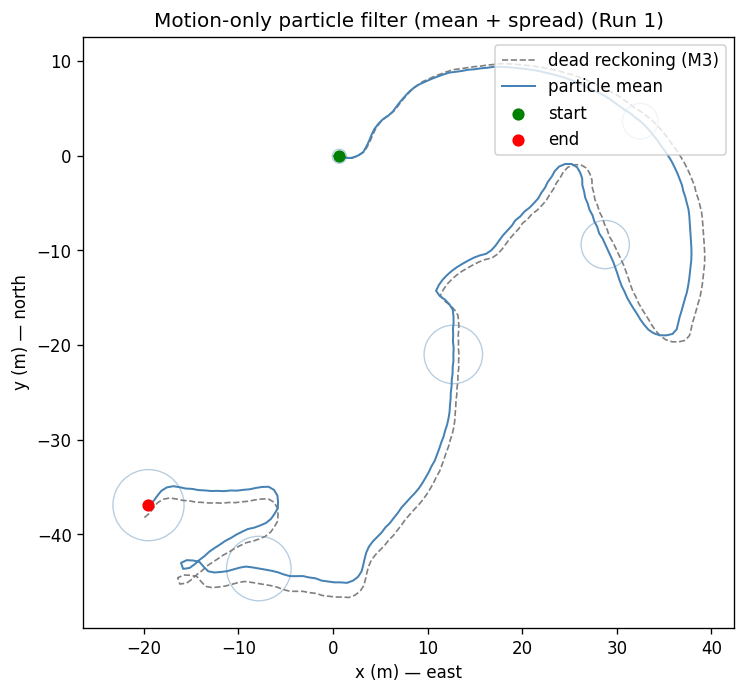
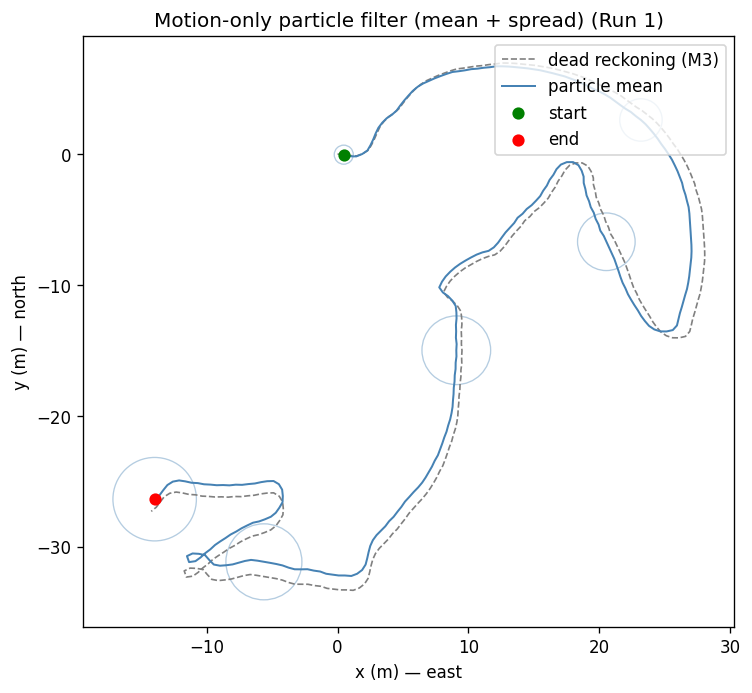
M3 calibration - step length 0.7 -> 0.5 m (motion-model scale fix)
While bringing up the BLE filter, the estimated path was ~1.7x too long. Measured
against known corridor legs in the door references, the reliable runs (1,3,4)
imply a step length of ~0.40-0.53 m, not 0.70 m. Set build_motion_table's default
step_length to a calibrated global constant of 0.50 m.

Effect: door-checkpoint error roughly halves on every run (Run 1 map-only 5b:
13.0 -> 3.6 m; Run 4: 97.8 -> 19.7 m). Regenerated the 5a/5b Run 1 figures with
the corrected scale.

Docs: record decision D10; note the follow-up per-run initial_heading fix.

diff --git a/src/imu.py b/src/imu.py
@@ -199,7 +199,7 @@ def heading_from_gyro(gyro, gravity_direction, initial_heading=0.0,
     return pd.DataFrame({"t_rel": gyro["t_rel"].values, "heading": heading.values})
 
 
-def build_motion_table(run, step_length=0.7, initial_heading=0.0,
+def build_motion_table(run, step_length=0.5, initial_heading=0.0,
                        heading_sigma_deg=15.0):
     """
     Build the per-step motion table used by the filter later.
@@ -214,6 +214,9 @@ def build_motion_table(run, step_length=0.7, initial_heading=0.0,
         A loaded run (uses its accel and gyro streams).
     step_length : float
         Assumed distance covered per step, in metres (kept constant for now).
+        The default 0.5 m was calibrated against known corridor legs in the
+        reference data (implied ~0.40-0.53 m per step on Runs 1, 3, 4); the
+        earlier 0.7 m made the estimated path ~1.7x too long. See decisions D10.
     initial_heading : float
         Heading at the start of the run, in radians (0 = east). Anchors the
         otherwise relative gyro heading to the known start direction.

diff --git a/docs/decisions.md b/docs/decisions.md
@@ -164,3 +164,41 @@ have the largest accumulated drift.
 **Status:** 5b confirmed. `run_with_constraints` takes a tunable `wall_sigma`
 (default 0.1); resampling is active, results are deterministic under a fixed seed,
 and the estimate is markedly more walkable than 5a on all four runs.
+
+---
+
+## D10 — Step length calibrated to ~0.5 m (motion-model scale fix)
+
+**Decision:** Change the constant step length in `imu.build_motion_table` from the
+initial guess **0.70 m to 0.50 m**, calibrated against known corridor legs in the
+reference data.
+
+**Why:** While bringing up the BLE filter (5c) the estimated path was far too
+long. Measuring a clean, straight, single-floor leg against the door references:
+
+| Run | Leg (floor 0) | Distance | Steps | Implied step length |
+|-----|---------------|----------|-------|---------------------|
+| 1 | 024→018 | 27.0 m | 67 | 0.40 m |
+| 2 | 021→018 | 13.5 m | 13 | 1.04 m (outlier — under-counted steps) |
+| 3 | 018→024 | 27.0 m | 53 | 0.51 m |
+| 4 | 024→018 | 27.0 m | 51 | 0.53 m |
+
+The reliable runs (1, 3, 4) cluster at 0.40–0.53 m; Run 2 is an outlier (only 13
+steps on a short leg). At 0.70 m the Run 1 path was 1.74× too long, which made the
+particle cloud overshoot every corridor and beacon. A single calibrated constant
+**0.50 m** roughly halved the door-checkpoint error on every run (e.g. Run 1 5b:
+13.0 → 3.6 m; Run 4 5b: 97.8 → 19.7 m).
+
+**Choice of a global constant** (not per-run) keeps it simple and avoids `imu.py`
+depending on the door references. Per-run stride calibration is a possible later
+refinement (the runs may be different walkers).
+
+**Known follow-up:** a second motion-model boundary condition, the per-run
+**initial heading**, still defaults to 0 (east) for every run. Runs that do not
+start walking east (e.g. Run 3 starts west) launch in the wrong direction; setting
+Run 3's initial heading to π cut its early-leg error 19.4 → 11.1 m. This is fixed
+next, in the orchestration layer (start position + heading are known, fixable
+boundary conditions per the assignment).
+
+**Status:** Confirmed (M3 refinement). Step length is still a tunable parameter of
+`build_motion_table`.

diff --git a/docs/implementation_plan.md b/docs/implementation_plan.md
@@ -141,9 +141,14 @@ reference timestamps as ground truth.
 the per-step motion table, and a dead-reckoning diagnostic are implemented and
 run on all four runs (cadence ~1.4 steps/s). As expected, dead reckoning drifts
 over a few minutes because of residual heading error — this is the motivation for
-the map/BLE correction in M5. Step length is currently a constant (0.7 m) and
-heading is anchored to the start direction; both can be refined during filter
-tuning if needed.
+the map/BLE correction in M5.
+
+**Calibration (added during M5 bring-up):** the constant step length was
+recalibrated from known corridor legs, **0.7 m → 0.5 m** (see decision D10); the
+0.7 m value made the estimated path ~1.7× too long and dominated the filter error.
+A second boundary condition, the per-run **initial heading**, is being set from the
+known start direction (Run 3 starts west, etc.) — orchestration-layer parameters,
+not new algorithm code.
 
 
 **Objective:** convert raw IMU into per-step movement vectors (how far, which